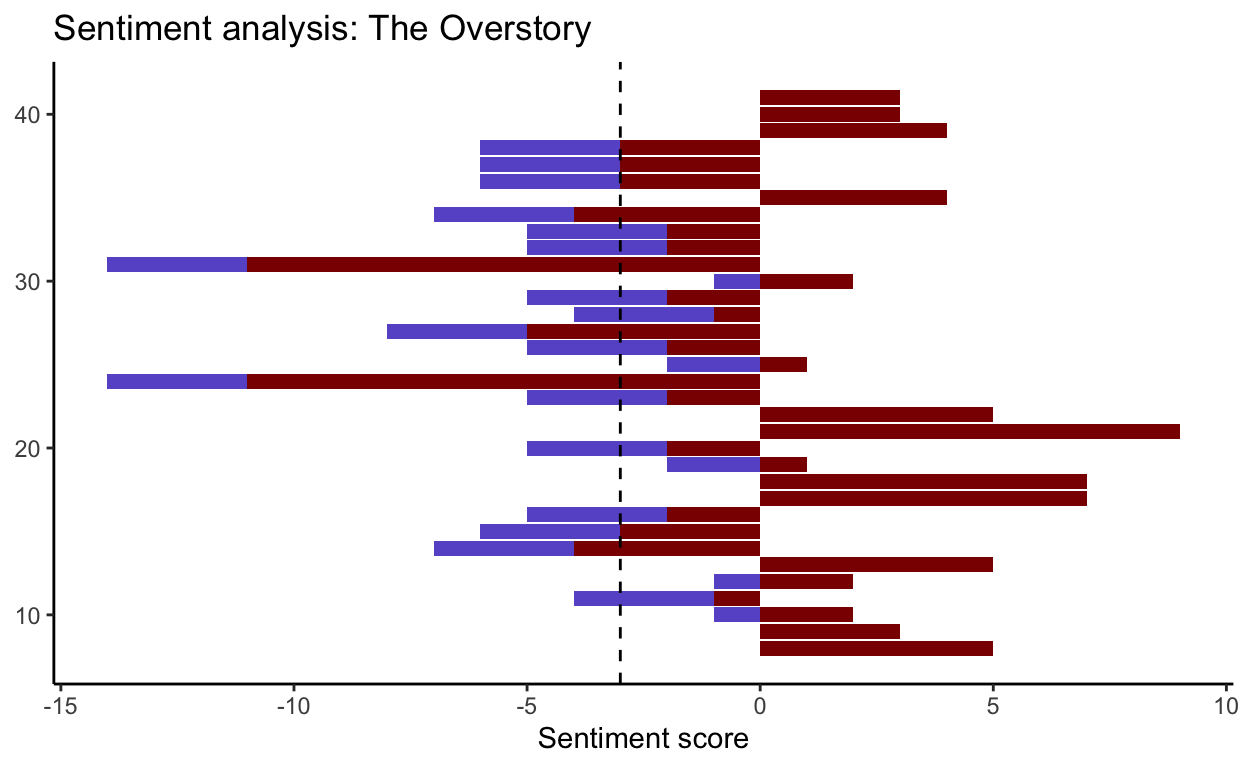
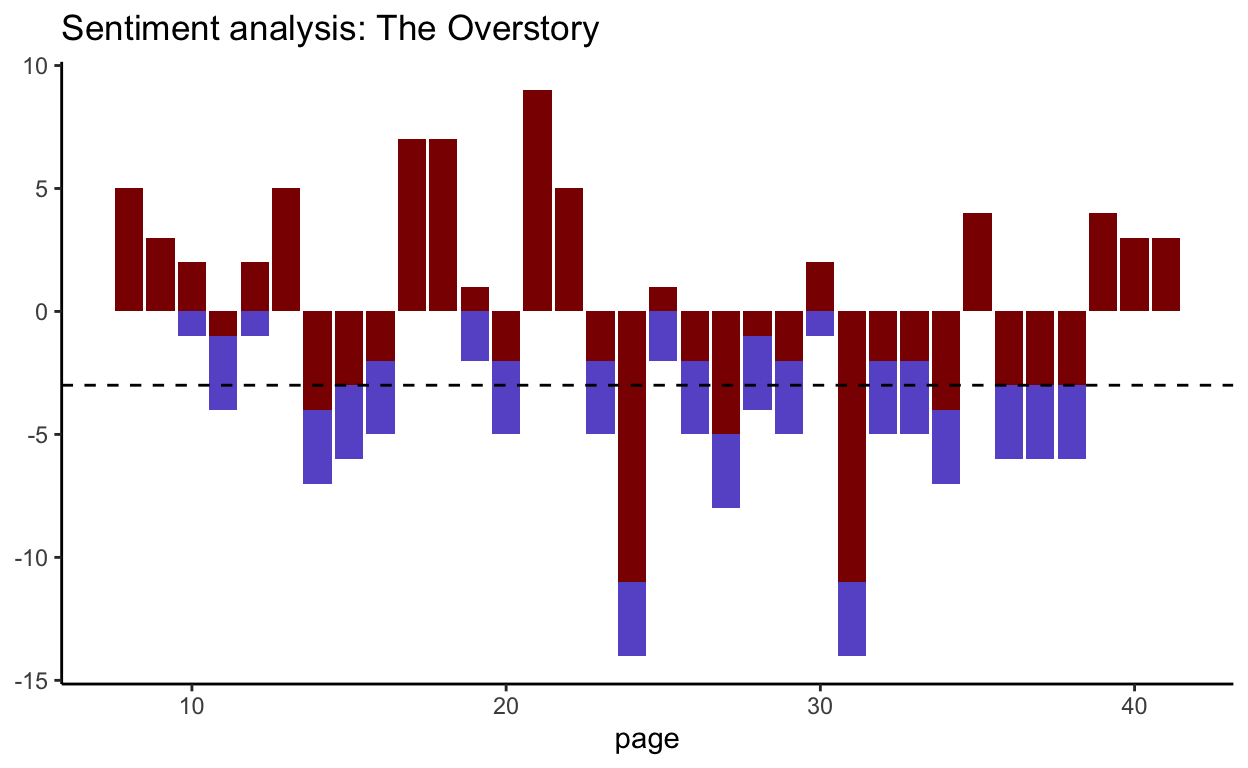
Topic_3 update

diff --git a/docs/topic_3.html b/docs/topic_3.html
@@ -2640,7 +2640,7 @@ book.</p>
   <span class='fu'><a href='https://ggplot2.tidyverse.org/reference/geom_bar.html'>geom_bar</a></span><span class='op'>(</span><span class='fu'><a href='https://ggplot2.tidyverse.org/reference/aes.html'>aes</a></span><span class='op'>(</span>y <span class='op'>=</span> <span class='va'>raw_score</span><span class='op'>)</span>, stat <span class='op'>=</span> <span class='st'>'identity'</span>, fill <span class='op'>=</span> <span class='st'>'slateblue3'</span><span class='op'>)</span> <span class='op'>+</span>
   <span class='fu'><a href='https://ggplot2.tidyverse.org/reference/geom_bar.html'>geom_bar</a></span><span class='op'>(</span><span class='fu'><a href='https://ggplot2.tidyverse.org/reference/aes.html'>aes</a></span><span class='op'>(</span>y <span class='op'>=</span> <span class='va'>offset_score</span><span class='op'>)</span>, stat <span class='op'>=</span> <span class='st'>'identity'</span>, fill <span class='op'>=</span> <span class='st'>'red4'</span><span class='op'>)</span> <span class='op'>+</span>
   <span class='fu'><a href='https://ggplot2.tidyverse.org/reference/geom_abline.html'>geom_hline</a></span><span class='op'>(</span>yintercept <span class='op'>=</span> <span class='va'>sent_scores</span><span class='op'>$</span><span class='va'>offset</span><span class='op'>[</span><span class='fl'>1</span><span class='op'>]</span>, linetype <span class='op'>=</span> <span class='st'>'dashed'</span>, size <span class='op'>=</span> <span class='fl'>.5</span><span class='op'>)</span> <span class='op'>+</span>
-  <span class='fu'><a href='https://ggplot2.tidyverse.org/reference/coord_flip.html'>coord_flip</a></span><span class='op'>(</span><span class='op'>)</span> <span class='op'>+</span>
+  <span class='co'>#coord_flip() +</span>
   <span class='fu'><a href='https://ggplot2.tidyverse.org/reference/theme.html'>theme</a></span><span class='op'>(</span>axis.title.y <span class='op'>=</span> <span class='fu'><a href='https://ggplot2.tidyverse.org/reference/element.html'>element_blank</a></span><span class='op'>(</span><span class='op'>)</span><span class='op'>)</span> <span class='op'>+</span>
   <span class='fu'><a href='https://ggplot2.tidyverse.org/reference/labs.html'>labs</a></span><span class='op'>(</span>title <span class='op'>=</span> <span class='st'>'Sentiment analysis: The Overstory'</span>,
        y <span class='op'>=</span> <span class='st'>'Sentiment score'</span><span class='op'>)</span>
@@ -2658,7 +2658,8 @@ Amazon’s Mechanical Turk website, paying 4 cents for each set of
 properly answered questions.</p>
 <p>The result is a comprehensive word-emotion lexicon for over 10,000
 words.”</p>
-Let’s take a look at the most common sentiment words in the data set
+<p>Let’s take a look at the most common sentiment words in the data
+set</p>
 <div class="layout-chunk" data-layout="l-body">
 <div class="sourceCode">
 <pre class="sourceCode r"><code class="sourceCode r"><span class='va'>nrc_sent</span> <span class='op'>&lt;-</span> <span class='fu'><a href='https://rdrr.io/pkg/tidytext/man/get_sentiments.html'>get_sentiments</a></span><span class='op'>(</span><span class='st'>'nrc'</span><span class='op'>)</span> <span class='co'>#requires downloading a large dataset via prompt</span>
@@ -2683,8 +2684,8 @@ Let’s take a look at the most common sentiment words in the data set
 </code></pre>
 </div>
 </div>
-Let’s break it out and plot the contributions by particular words
-different sentiment categories
+<p>Let’s break it out and plot the contributions by particular sentiment
+categories</p>
 <div class="layout-chunk" data-layout="l-body">
 <div class="sourceCode">
 <pre class="sourceCode r"><code class="sourceCode r"><span class='va'>book_sent_counts</span> <span class='op'>&lt;-</span> <span class='va'>text_words</span> <span class='op'><a href='https://tidyr.tidyverse.org/reference/pipe.html'>%&gt;%</a></span>
@@ -2739,13 +2740,13 @@ Nexis Uni data source</h3>
 </div>
 <div class="layout-chunk" data-layout="l-body">
 <div class="sourceCode">
-<pre class="sourceCode r"><code class="sourceCode r"><span class='va'>mytext</span> <span class='op'>&lt;-</span> <span class='fu'><a href='https://rdrr.io/pkg/sentimentr/man/get_sentences.html'>get_sentences</a></span><span class='op'>(</span><span class='va'>dat2</span><span class='op'>$</span><span class='va'>Headline</span><span class='op'>)</span>
+<pre class="sourceCode r"><code class="sourceCode r"><span class='co'>#can we create a similar graph to Figure 1A from Froelich et al.? </span>
+<span class='va'>mytext</span> <span class='op'>&lt;-</span> <span class='fu'><a href='https://rdrr.io/pkg/sentimentr/man/get_sentences.html'>get_sentences</a></span><span class='op'>(</span><span class='va'>dat2</span><span class='op'>$</span><span class='va'>Headline</span><span class='op'>)</span>
 <span class='va'>sent</span> <span class='op'>&lt;-</span> <span class='fu'><a href='https://rdrr.io/pkg/sentimentr/man/sentiment.html'>sentiment</a></span><span class='op'>(</span><span class='va'>mytext</span><span class='op'>)</span>
 
 <span class='va'>sent_df</span> <span class='op'>&lt;-</span> <span class='fu'><a href='https://dplyr.tidyverse.org/reference/mutate-joins.html'>inner_join</a></span><span class='op'>(</span><span class='va'>dat2</span>, <span class='va'>sent</span>, by <span class='op'>=</span> <span class='st'>"element_id"</span><span class='op'>)</span>
 
 <span class='va'>sentiment</span> <span class='op'>&lt;-</span> <span class='fu'><a href='https://rdrr.io/pkg/sentimentr/man/sentiment_by.html'>sentiment_by</a></span><span class='op'>(</span><span class='va'>sent_df</span><span class='op'>$</span><span class='va'>Headline</span><span class='op'>)</span>
-
 
 <span class='va'>sent_df</span> <span class='op'><a href='https://tidyr.tidyverse.org/reference/pipe.html'>%&gt;%</a></span>
   <span class='fu'><a href='https://dplyr.tidyverse.org/reference/arrange.html'>arrange</a></span><span class='op'>(</span><span class='va'>sentiment</span><span class='op'>)</span>
@@ -2765,7 +2766,13 @@ Nexis Uni data source</h3>
  9         62 2022-04-06 Governor Yo…           1         11    -0.377
 10          7 2022-04-05 Narrow path…           1          8    -0.354
 # … with 99 more rows</code></pre>
+<div class="sourceCode">
+<pre class="sourceCode r"><code class="sourceCode r"><span class='va'>sent_df</span><span class='op'>$</span><span class='va'>polarity</span> <span class='op'>&lt;-</span> <span class='fu'><a href='https://rdrr.io/r/base/ifelse.html'>ifelse</a></span><span class='op'>(</span><span class='va'>sent_df</span><span class='op'>$</span><span class='va'>sentiment</span> <span class='op'>&lt;</span><span class='fl'>0</span>, <span class='op'>-</span><span class='fl'>1</span>, <span class='fu'><a href='https://rdrr.io/r/base/ifelse.html'>ifelse</a></span><span class='op'>(</span><span class='va'>sent_df</span><span class='op'>$</span><span class='va'>sentiment</span> <span class='op'>&gt;</span> <span class='fl'>0</span>, <span class='fl'>1</span>, <span class='fl'>0</span><span class='op'>)</span><span class='op'>)</span>
+</code></pre>
 </div>
+</div>
+<p>Pseudo code for Froelich et al plot: mean sentiment by day, summarize
+plot x = day, y = sentiment</p>
 <div class="layout-chunk" data-layout="l-body">
 <div class="sourceCode">
 <pre class="sourceCode r"><code class="sourceCode r"><span class='va'>custom_stop_words</span> <span class='op'>&lt;-</span> <span class='fu'><a href='https://dplyr.tidyverse.org/reference/bind.html'>bind_rows</a></span><span class='op'>(</span><span class='fu'><a href='https://tibble.tidyverse.org/reference/tibble.html'>tibble</a></span><span class='op'>(</span>word <span class='op'>=</span> <span class='fu'><a href='https://rdrr.io/r/base/c.html'>c</a></span><span class='op'>(</span><span class='st'>"your_word"</span><span class='op'>)</span>,  
@@ -2775,7 +2782,18 @@ Nexis Uni data source</h3>
 </div>
 </div>
 <h2 id="assignment-due-419-by-5pm">Assignment (Due 4/19 by 5PM)</h2>
-<ol type="1">
+<ol start="0" type="1">
+<li><p>Using the “IPCC” Nexis Uni data set from the class presentation
+and the pseudo code we discussed, recreate Figure 1A from Froelich et
+al. (Date x # of 1) positive, 2) negative, 3) neutral headlines):</p>
+<figure>
+<img src="img/Froelich_Fig3A.png" width="386"
+alt="Newspaper ‘aquaculture’ media sentiment. Sentiment over time based on the frequency of newspaper Fig. 1. Headlines with negative (red), positive (blue), and neutral (gray) titles" />
+<figcaption aria-hidden="true">Newspaper ‘aquaculture’ media sentiment.
+Sentiment over time based on the frequency of newspaper Fig. 1.
+Headlines with negative (red), positive (blue), and neutral (gray)
+titles</figcaption>
+</figure></li>
 <li><p>Access the Nexis Uni database through the UCSB library: <a
 href="https://www.library.ucsb.edu/research/db/211"
 class="uri">https://www.library.ucsb.edu/research/db/211</a></p></li>
@@ -2784,8 +2802,7 @@ articles.</p></li>
 <li><p>Use your search term along with appropriate filters to obtain and
 download a batch of at least 100 full text search results
 (.docx).</p></li>
-<li><p>Read your Nexis article document into RStudio and parse with
-pdftools.</p></li>
+<li><p>Read your Nexis article document into RStudio.</p></li>
 <li><p>This time use the full text of the articles for the analysis.
 First clean any artifacts of the data collection process (hint: this
 type of thing should be removed: “Apr 04, 2022( Biofuels Digest: <a
